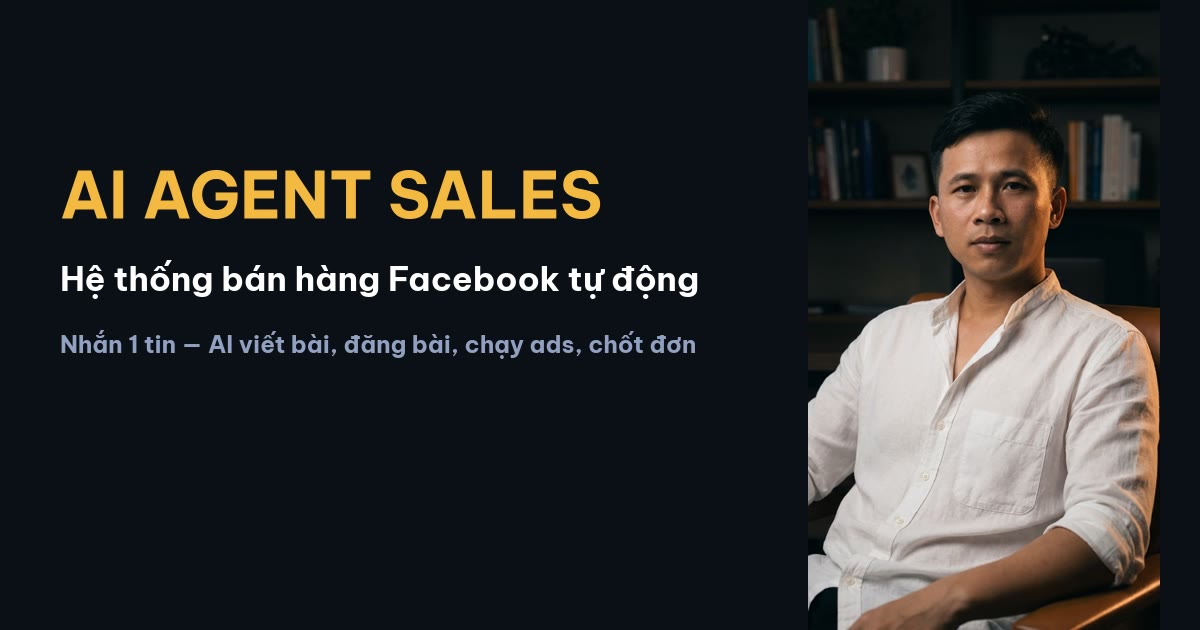
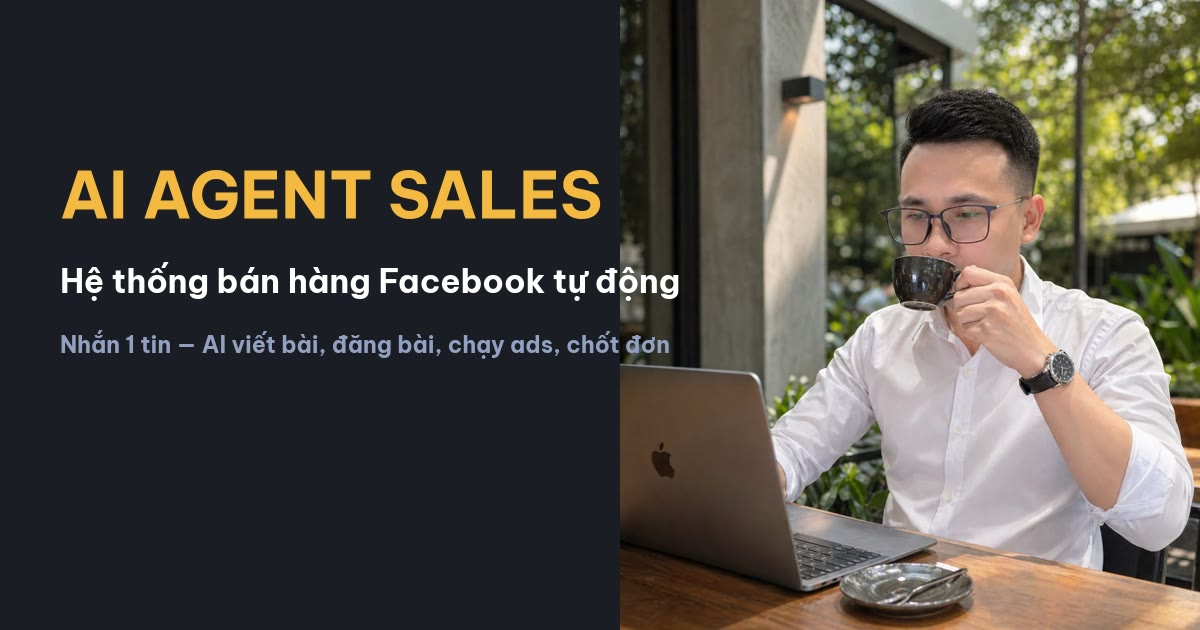
aiagentsales: thay ảnh hero — Long Nam uống cà phê bên laptop (khách gửi)
Kể đúng thông điệp trang: chủ nhàn nhã trong khi card 'AI AGENT · ĐANG LÀM VIỆC'
chạy việc bên cạnh. object-position 62% giữ mặt + tách cà phê trong khung 4:5.
OG image dựng lại cùng ảnh mới.

diff --git a/public/aiagentsales.html b/public/aiagentsales.html
@@ -111,7 +111,7 @@ h1 .g{color:var(--gold)}
 .portrait-zone{position:relative}
 .portrait{border-radius:22px;border:1px solid rgba(245,185,66,.35);box-shadow:0 30px 80px rgba(0,0,0,.5);position:relative;overflow:hidden}
 .portrait::after{content:"";position:absolute;inset:0;background:linear-gradient(to top,rgba(11,15,23,.55) 0%,transparent 30%)}
-.portrait img{width:100%;height:auto;aspect-ratio:4/5;object-fit:cover;object-position:50% 16%}
+.portrait img{width:100%;height:auto;aspect-ratio:4/5;object-fit:cover;object-position:62% 50%}
 .p-cap{position:absolute;right:14px;bottom:14px;z-index:2;max-width:50%;text-align:right;background:rgba(11,15,23,.76);backdrop-filter:blur(8px);border:1px solid rgba(255,255,255,.10);border-radius:12px;padding:10px 14px}
 .p-cap b{display:block;font-size:14.5px;color:var(--gold)}
 .p-cap span{font-size:11.5px;color:var(--dim);line-height:1.5;display:block}
@@ -334,7 +334,7 @@ h1 .g{color:var(--gold)}
     </div>
     <div class="portrait-zone rv">
       <div class="portrait">
-        <img src="/aiagentsales-assets/longnam-portrait.jpg" alt="Long Nam — người xây và đang vận hành hệ thống AI Agent Sales" width="720" height="1290">
+        <img src="/aiagentsales-assets/longnam-hero-cafe.jpg" alt="Long Nam — người xây và đang vận hành hệ thống AI Agent Sales" width="1000" height="1000">
         <div class="p-cap"><b>Long Nam</b><span>Người build hệ thống này — đang để nó bán hàng thật mỗi ngày</span></div>
       </div>
       <div class="chat-float" id="heroChat" aria-hidden="true">
